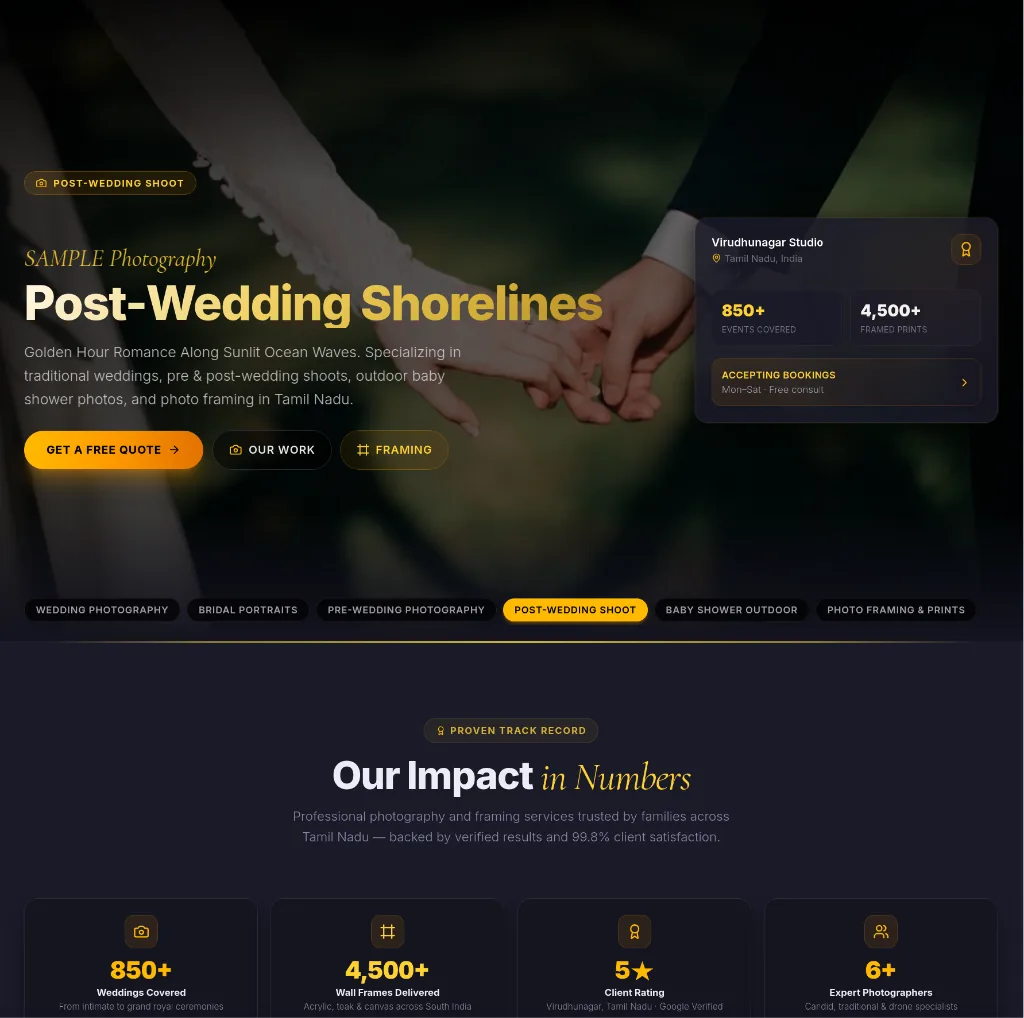
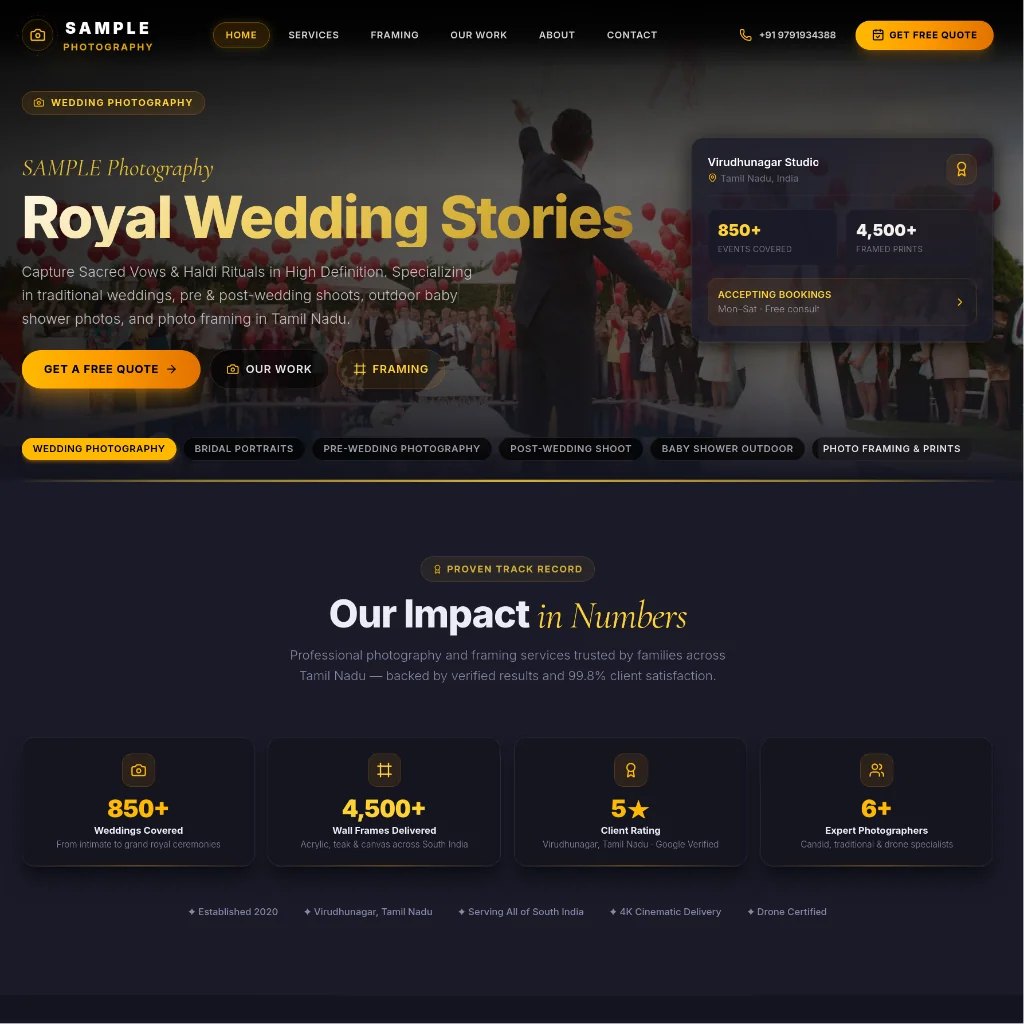
add project

diff --git a/src/data/data.ts b/src/data/data.ts
@@ -345,9 +345,18 @@ export const experienceData = {
 
 export const projectData: PortfolioItem[] = [
   {
+    image: "/nanban-crackers.webp",
+    title: "Nanban Crackers – Festive E-Commerce",
+    href: "https://nanbancrackers.mkkcreation.com",
+    desc: "Sivakasi direct factory fireworks e-commerce platform featuring 100+ wholesale products, curated gift box combos, Zustand persistent cart, minimum order validation, and client-side PDF invoice generation.",
+    tech: ["Next.js 16", "React 19", "Tailwind CSS", "Zustand", "jsPDF"],
+    category: "Next.js E-Commerce",
+  },
+  {
     image: "/photography-portfolio.webp",
     title: "Photography & Framing Studio",
     href: "https://photography.mkkcreation.com/",
+    github: "https://github.com/mkk-karthi/photography",
     desc: "Luxury photography and custom photo framing studio website featuring interactive service packages, event galleries, dynamic pricing calculator, and booking inquiry workflows.",
     tech: ["Next.js", "TypeScript", "Tailwind CSS", "Antigravity"],
     category: "Next.js Web Application",
